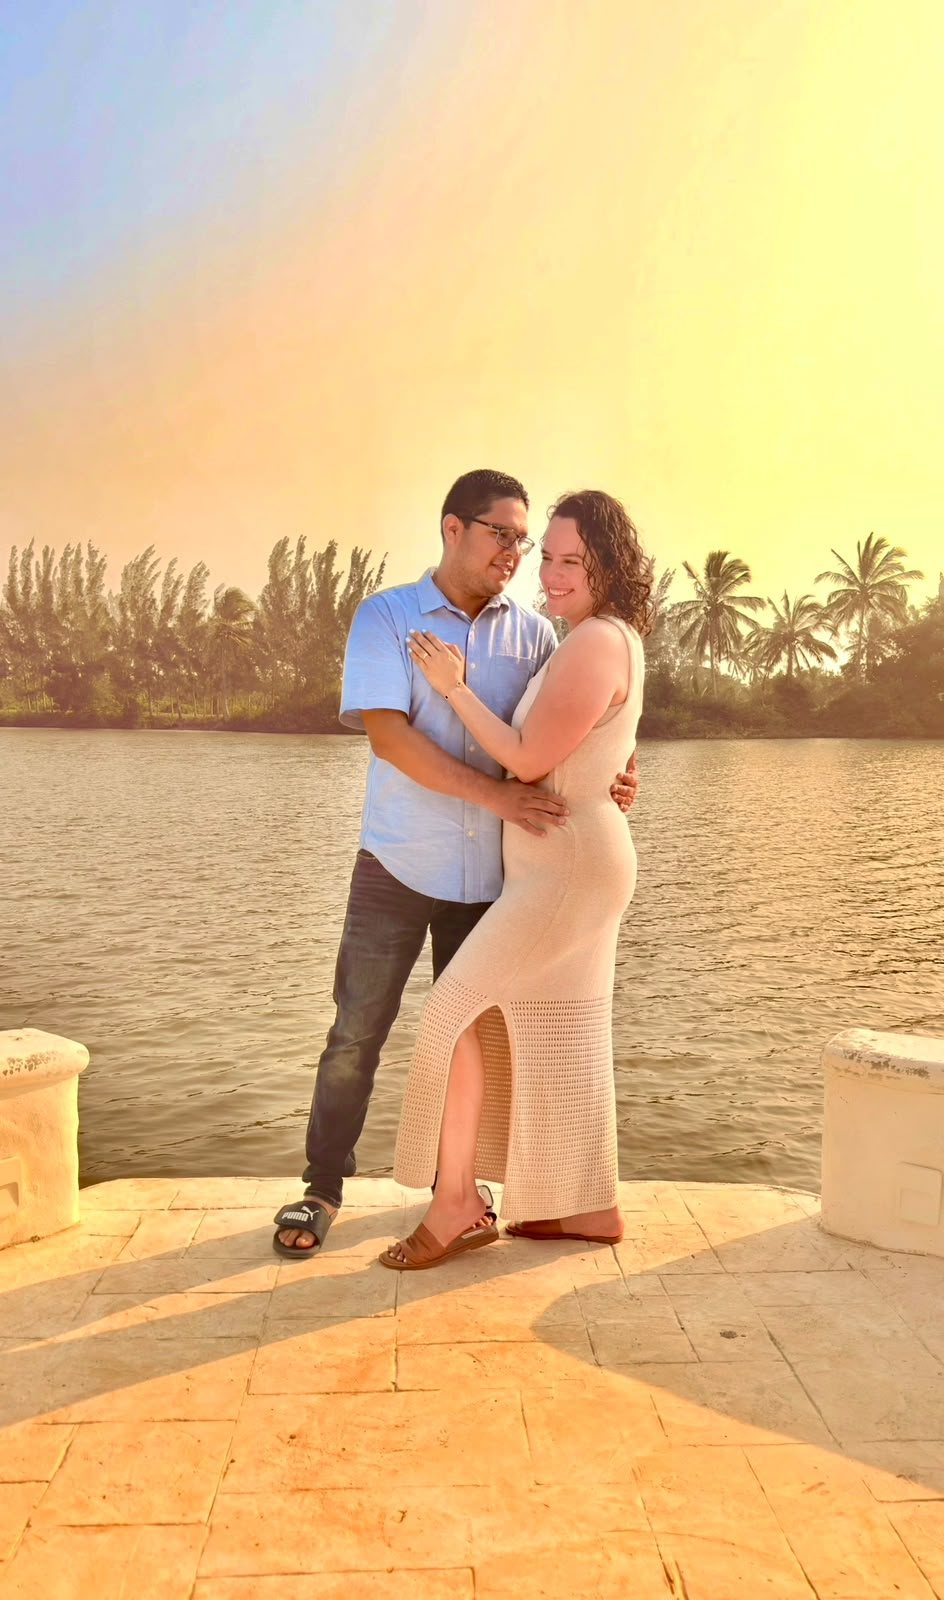
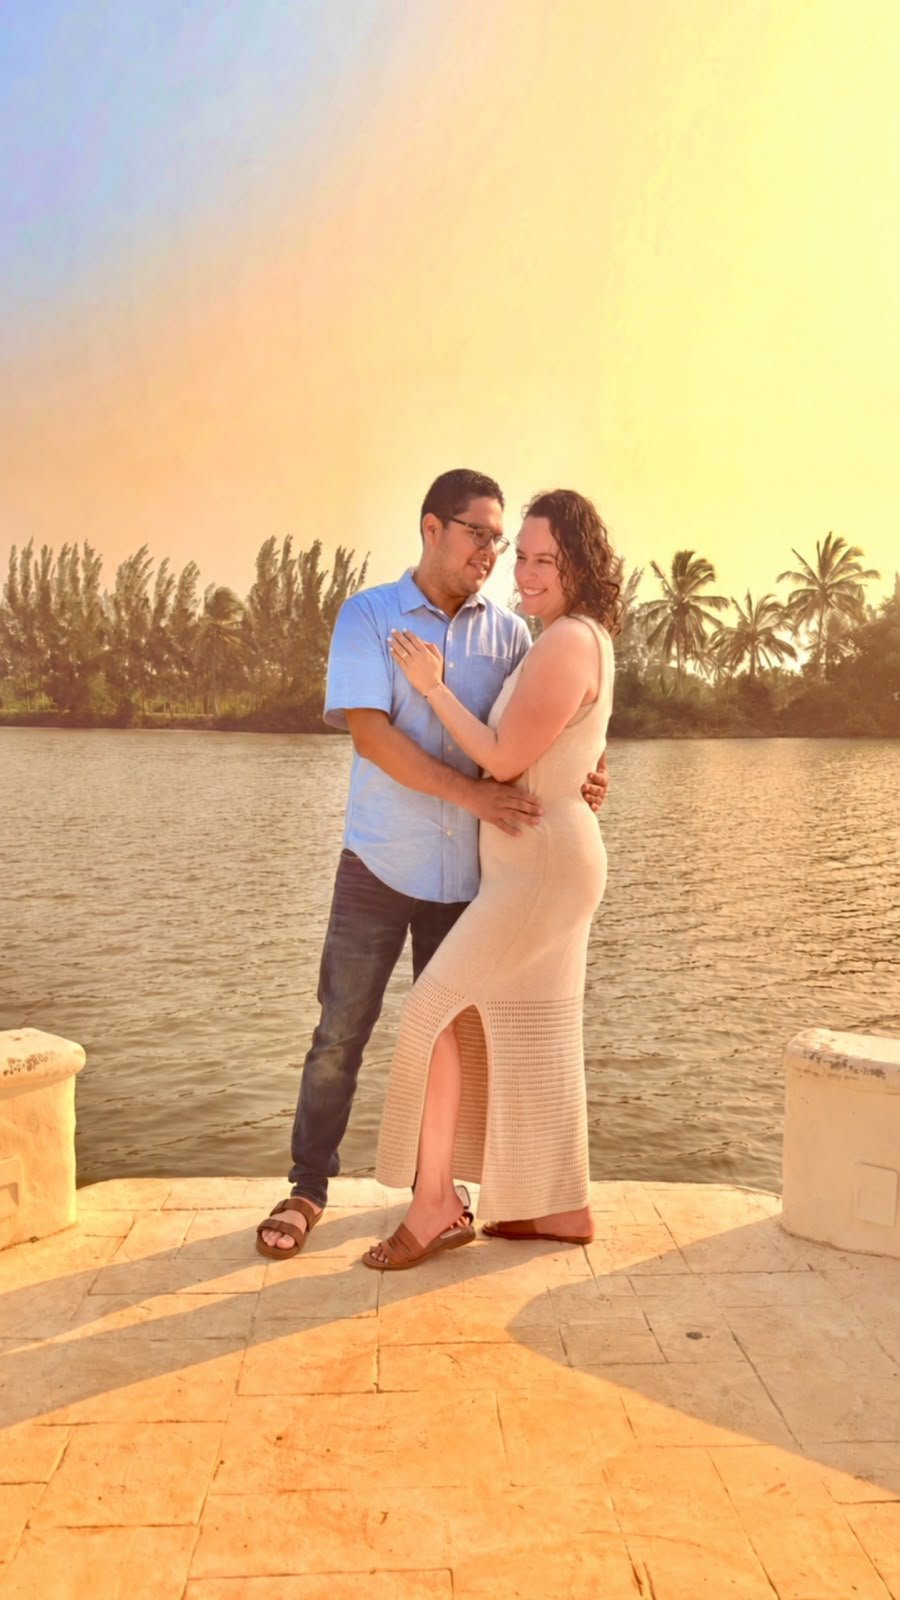
feat: ronda 2 del cliente (portada limpia, historia tipo collage, anillo, sin destellos, fotos nuevas)

diff --git a/index.html b/index.html
@@ -18,12 +18,12 @@
 <link rel="icon" href="favicon.png">
 <link rel="preconnect" href="https://fonts.googleapis.com">
 <link rel="preconnect" href="https://fonts.gstatic.com" crossorigin>
-<link href="https://fonts.googleapis.com/css2?family=Bodoni+Moda:ital,opsz,wght@0,6..96,500;0,6..96,600;0,6..96,700;1,6..96,500;1,6..96,600&family=Caveat:wght@600;700&family=EB+Garamond:ital,wght@0,500;0,600;1,500&display=swap" rel="stylesheet">
+<link href="https://fonts.googleapis.com/css2?family=Bodoni+Moda:ital,opsz,wght@0,6..96,500;0,6..96,600;0,6..96,700;1,6..96,500;1,6..96,600&family=Pinyon+Script&family=EB+Garamond:ital,wght@0,500;0,600;1,500&display=swap" rel="stylesheet">
 <style>
 :root{
   --wine:#791a3d;--wine-dk:#551029;--rose:#99244f;--sand:#D4C5B2;
   --cream:#f7f1e8;--paper:#fffaf2;--ink:#2a1219;
-  --didone:'Bodoni Moda',Didot,serif;--text:'EB Garamond',Garamond,serif;--hand:'Caveat',cursive;
+  --didone:'Bodoni Moda',Didot,serif;--text:'EB Garamond',Garamond,serif;--hand:'Pinyon Script',cursive;
 }
 *{box-sizing:border-box;margin:0;padding:0}
 html{scroll-behavior:smooth}
@@ -167,13 +167,50 @@ footer>*{position:relative}
 .addcal{transition:transform .2s ease,box-shadow .2s ease}
 .addcal:active{transform:scale(.96);box-shadow:0 4px 12px rgba(85,16,41,.3)}
 @media (prefers-reduced-motion:reduce){.silk::before,.silk::after,.shine::after{animation:none}}
+
+/* ---------- Ronda 2: portada limpia + historia clásica ---------- */
+.cover{background:var(--cream);color:var(--wine-dk)}
+.cover::before{display:none}
+.cover .lbl,.cover-place{color:var(--wine)}
+.arch{border-color:rgba(121,26,61,.45)}
+.arch-in::after{display:none}
+.names{margin-top:22px;text-shadow:none;color:var(--wine)}
+.names span{font-weight:400;font-size:.8em;color:var(--rose)}
+.cover-date i{background:var(--rose)}
+.down b{background:linear-gradient(var(--wine),transparent)}
+.story{padding-top:64px}
+.yrs{position:relative;display:inline-block;line-height:1}
+.n13{font-family:var(--didone);font-weight:600;font-size:clamp(130px,40vw,210px);line-height:.9;color:var(--wine);letter-spacing:-.01em;display:block}
+.anos{font-family:var(--hand);font-size:clamp(62px,18vw,96px);color:#a98352;display:block;margin-top:-.42em;line-height:1}
+.story p.caps{font-family:var(--text);font-weight:600;font-size:17px;letter-spacing:.09em;text-transform:uppercase;color:var(--wine-dk);line-height:1.7;margin-top:22px}
+.story p.caps.sm{font-size:16px}
+.story p.caps br{display:none}
+@media(min-width:520px){.story p.caps br{display:inline}}
+.rule{display:flex;align-items:center;justify-content:center;gap:12px;margin:26px auto 0;max-width:230px}
+.rule::before,.rule::after{content:"";flex:1;height:1px;background:rgba(121,26,61,.4)}
+.rule i{width:7px;height:7px;background:#a98352;transform:rotate(45deg)}
+.collage{display:grid;grid-template-columns:1fr 1fr;gap:12px;margin:34px auto 34px;max-width:460px}
+.collage figure{background:#fff;padding:7px;box-shadow:0 12px 30px rgba(85,16,41,.18)}
+.collage img{width:100%;height:100%;object-fit:cover;aspect-ratio:4/5}
+.collage .c1{transform:rotate(-1.6deg)}
+.collage .c2{transform:rotate(1.4deg) translateY(10px)}
+.collage .c3{grid-column:1/-1;transform:rotate(-.6deg);margin-top:8px}
+.collage .c3 img{aspect-ratio:4/3;object-position:center 30%}
+.yes{font-family:var(--hand);font-style:normal;font-weight:400;font-size:clamp(36px,10.6vw,70px);white-space:nowrap;line-height:1.1;margin-top:18px;color:var(--wine)}
+.ring{margin:14px -24px 0}
+.ring img{width:100%;aspect-ratio:4/5;object-fit:cover;object-position:center 55%;
+  -webkit-mask-image:linear-gradient(transparent,#000 16%,#000 84%,transparent);mask-image:linear-gradient(transparent,#000 16%,#000 84%,transparent)}
+.sign{margin-top:54px}
+.sign .who{font-family:var(--hand);font-weight:400;font-size:clamp(50px,14vw,68px);color:var(--wine);line-height:1.15;margin-top:22px}
+.sign .when{font-family:var(--didone);font-weight:600;font-size:20px;letter-spacing:.22em;color:var(--wine-dk);margin-top:4px}
+.sign .fin{font-family:var(--didone);font-style:italic;font-weight:500;font-size:clamp(24px,6.6vw,30px);line-height:1.35;color:var(--wine-dk);margin-top:24px}
+.mono span{font-size:.8em}
+@media(min-width:800px){.ring{margin-left:0;margin-right:0}}
 </style>
 </head>
 <body>
-<canvas id="motes" aria-hidden="true"></canvas>
 
 <header class="cover">
-  <span class="silk" aria-hidden="true"></span><span class="sheen" aria-hidden="true"></span>
   <p class="lbl">Save the date</p>
   <div class="arch"><div class="arch-in">
     <img src="foto1.jpg" alt="Jalin y Jesús" class="on">
@@ -185,24 +222,28 @@ footer>*{position:relative}
   <p class="lbl cover-place">Yecuatla, Veracruz</p>
   <div class="down" aria-hidden="true"><b></b></div>
 </header>
-<span class="wave" aria-hidden="true"></span>
 
 <main>
   <section class="story">
-    <div class="big13 rv" aria-hidden="true">13</div>
-    <p class="lbl rv">años de historias</p>
-    <p class="rv">13 años de historias, aprendizajes, dos hijas que son nuestro mayor regalo y una vida que hemos construido juntos.</p>
-    <p class="soft rv">Hoy queremos compartirles algo que nos hace muy felices...</p>
-    <h2 class="yes rv">¡Nos comprometimos!</h2>
-    <div class="polas rv">
-      <figure class="pola a"><img src="foto2.jpg" alt="Jalin y Jesús abrazados al atardecer"><figcaption>elegirnos…</figcaption></figure>
-      <figure class="pola b"><img src="foto3.jpg" alt="Jalin y Jesús sonriendo"><figcaption>…una vez más</figcaption></figure>
+    <div class="yrs rv"><span class="n13">13</span><span class="anos">años</span></div>
+    <p class="caps rv">de historias, aprendizajes <br>y una vida construida juntos.</p>
+    <div class="rule rv" aria-hidden="true"><i></i></div>
+    <div class="collage rv">
+      <figure class="c1"><img src="foto2.jpg" alt="Jalin y Jesús sonriendo"></figure>
+      <figure class="c2"><img src="foto5.jpg" alt="Jalin y Jesús frente a la laguna al atardecer"></figure>
+      <figure class="c3"><img src="familia.jpg" alt="Jalin y Jesús con sus dos hijas"></figure>
     </div>
-    <p class="rv" style="margin-top:70px">Después de todo lo que hemos vivido, decidimos elegirnos una vez más y comenzar una nueva etapa de nuestra historia.</p>
+    <p class="caps rv">Dos hijas que son <br>nuestro mayor regalo.</p>
+    <div class="rule rv" aria-hidden="true"><i></i></div>
+    <p class="caps sm rv">Y hoy queremos compartirles <br>algo que nos hace muy felices…</p>
+    <h2 class="yes rv">¡Nos comprometimos!</h2>
+    <figure class="ring rv"><img src="anillo.jpg" alt="El anillo de compromiso"></figure>
+    <p class="rv">Después de todo lo que hemos vivido, decidimos elegirnos una vez más y comenzar una nueva etapa de nuestra historia.</p>
     <div class="sign rv">
+      <div class="rule" aria-hidden="true"><i></i></div>
       <p class="who">Jalin &amp; Jesús</p>
-      <p class="when">03-04-2027</p>
-      <p class="hand">Ahora sí...<br>¡nos vamos a casar!</p>
+      <p class="when">03 · 04 · 2027</p>
+      <p class="fin">Ahora sí…<br>¡nos vamos a casar!</p>
     </div>
   </section>
 
@@ -282,23 +323,6 @@ footer>*{position:relative}
     document.getElementById('cd-s').textContent=p(s%60);
   }
   t(); setInterval(t,1000);
-})();
-/* Motas doradas de atardecer */
-(function(){
-  if(window.matchMedia&&matchMedia('(prefers-reduced-motion:reduce)').matches) return;
-  var cv=document.getElementById('motes'),c=cv.getContext('2d'),W,H,d=Math.min(devicePixelRatio||1,2),ps=[];
-  function R(a,b){return a+Math.random()*(b-a)}
-  function size(){W=innerWidth;H=innerHeight;cv.width=W*d;cv.height=H*d;cv.style.width=W+'px';cv.style.height=H+'px';c.setTransform(d,0,0,d,0,0);
-    ps=[];for(var i=0;i<Math.min(34,Math.max(18,W/22));i++)ps.push({x:R(0,W),y:R(0,H),r:R(1,2.6),v:R(.08,.3),ph:R(0,6.3),tw:R(.01,.03)});}
-  function draw(){
-    c.clearRect(0,0,W,H);
-    for(var i=0;i<ps.length;i++){var p=ps[i];p.y-=p.v;p.ph+=p.tw;if(p.y<-8){p.y=H+8;p.x=R(0,W);}
-      var x=p.x+Math.sin(p.ph)*14,a=.25+.35*(.5+.5*Math.sin(p.ph*2.3));
-      var g=c.createRadialGradient(x,p.y,0,x,p.y,p.r*3);g.addColorStop(0,'rgba(236,190,120,'+a+')');g.addColorStop(1,'rgba(236,190,120,0)');
-      c.fillStyle=g;c.beginPath();c.arc(x,p.y,p.r*3,0,6.3);c.fill();}
-    requestAnimationFrame(draw);
-  }
-  size();addEventListener('resize',size);draw();
 })();
 /* Satinado: el brillo sigue el dedo / cursor / inclinacion y nunca se queda quieto */
 (function(){
